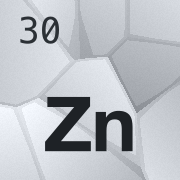
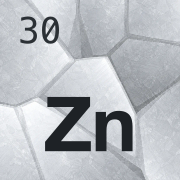
Refresh Zinc spangle imagery at high resolution

diff --git a/website/src/styles/zinc.css b/website/src/styles/zinc.css
@@ -124,7 +124,7 @@ body {
 
 .z-tile,
 .z-element {
-  background: #c9ced3 url("/zn-spangle.png") center / cover;
+  background: #c9ced3 url("/zn-spangle-hd.webp") center / cover;
   border-radius: var(--z-radius-sm);
   box-shadow: inset 0 0 0 1px rgba(255, 255, 255, 0.35), 0 0 0 1px var(--sl-color-hairline-light);
   color: #1e2226;

diff --git a/benchmarks/cmd/zincbench/dash.go b/benchmarks/cmd/zincbench/dash.go
@@ -60,8 +60,8 @@ func buildDashboard(s *Store, out string) (string, error) {
 		return "", err
 	}
 
-	logo := "zn-spangle.png"
-	if rel, err := filepath.Rel(filepath.Dir(out), filepath.Join(s.root, "website", "public", "zn-spangle.png")); err == nil {
+	logo := "zn-spangle-hd.webp"
+	if rel, err := filepath.Rel(filepath.Dir(out), filepath.Join(s.root, "website", "public", "zn-spangle-hd.webp")); err == nil {
 		logo = filepath.ToSlash(rel)
 	}
 	html := strings.Replace(dashboardTemplate, "/*__DATA__*/null", string(data), 1)

diff --git a/website/README.md b/website/README.md
@@ -12,8 +12,9 @@ The local site runs at <http://localhost:4321>. Documentation lives in
 the sidebar is configured in `astro.config.mjs`.
 
 The theme lives in `src/styles/zinc.css`, and code blocks use the Nord-derived
-`src/themes/zinc-frost.json` theme. The spangle texture and favicons in `public/`
-are generated; rebuild them with `npm run build:brand`.
+`src/themes/zinc-frost.json` theme. The high-resolution Zinc textures live in
+`public/`; run `npm run build:brand` to rebuild the favicons and legacy spangle
+texture used by older benchmark dashboards.
 
 Before publishing:
 
